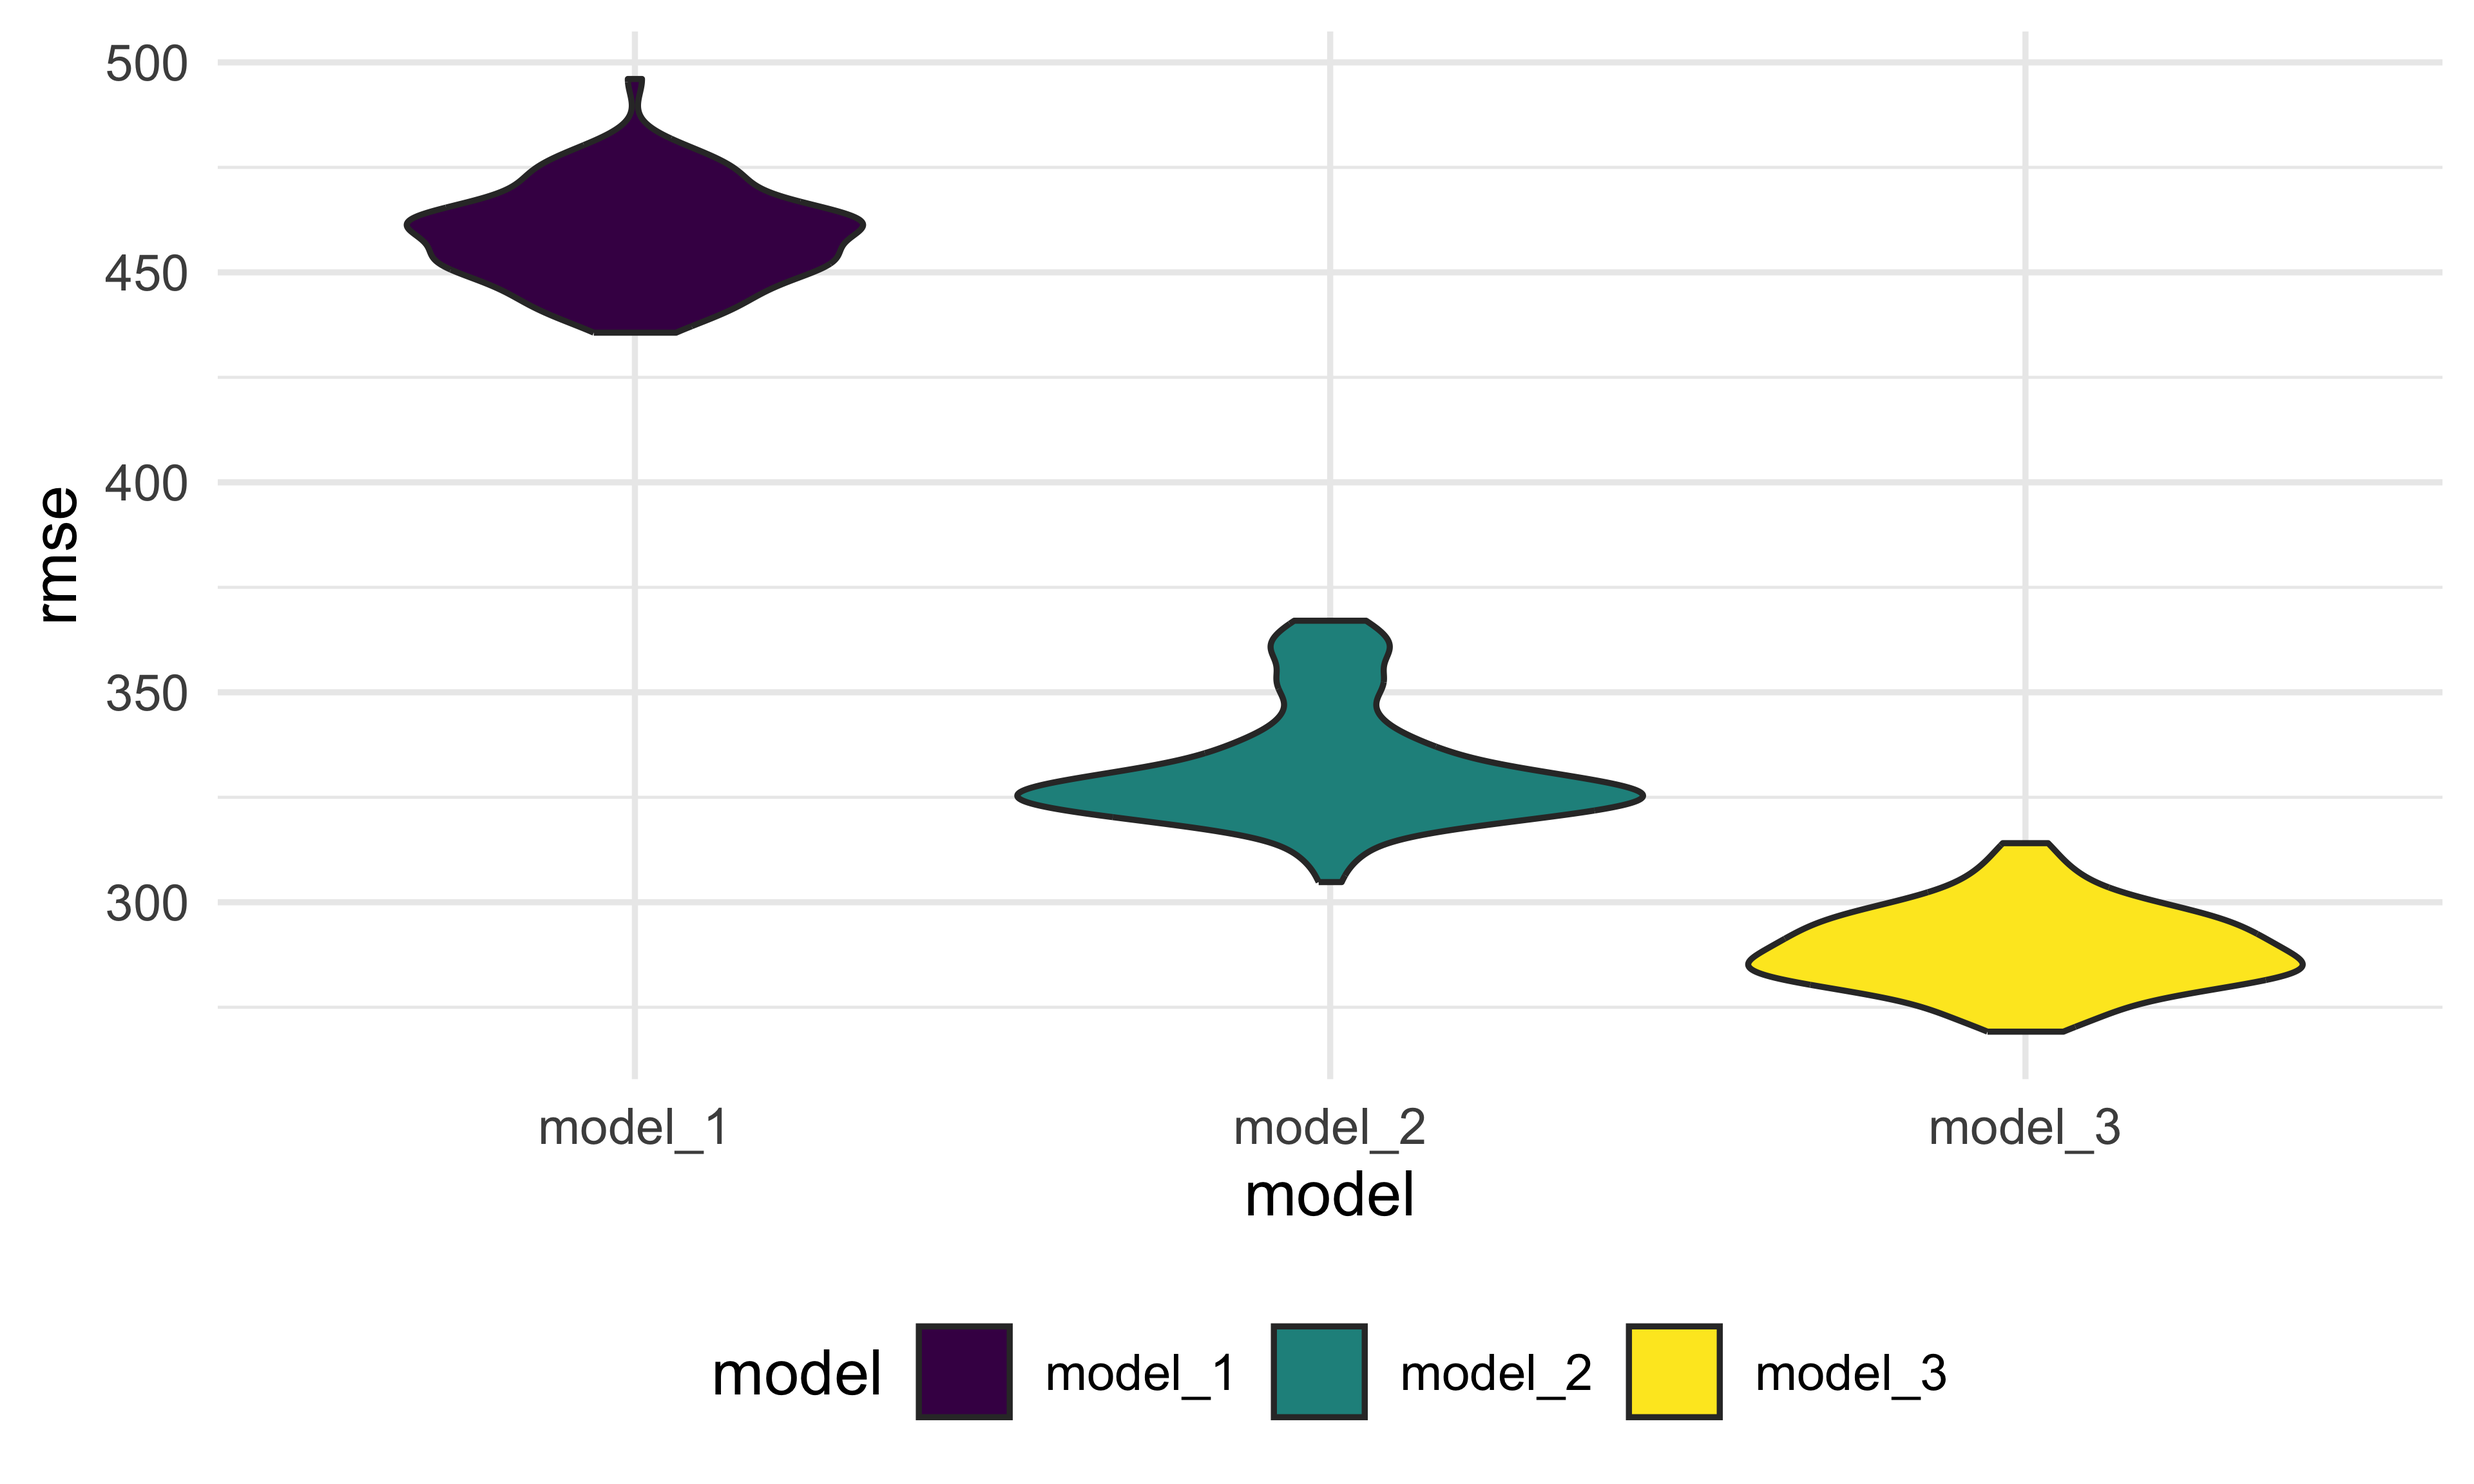
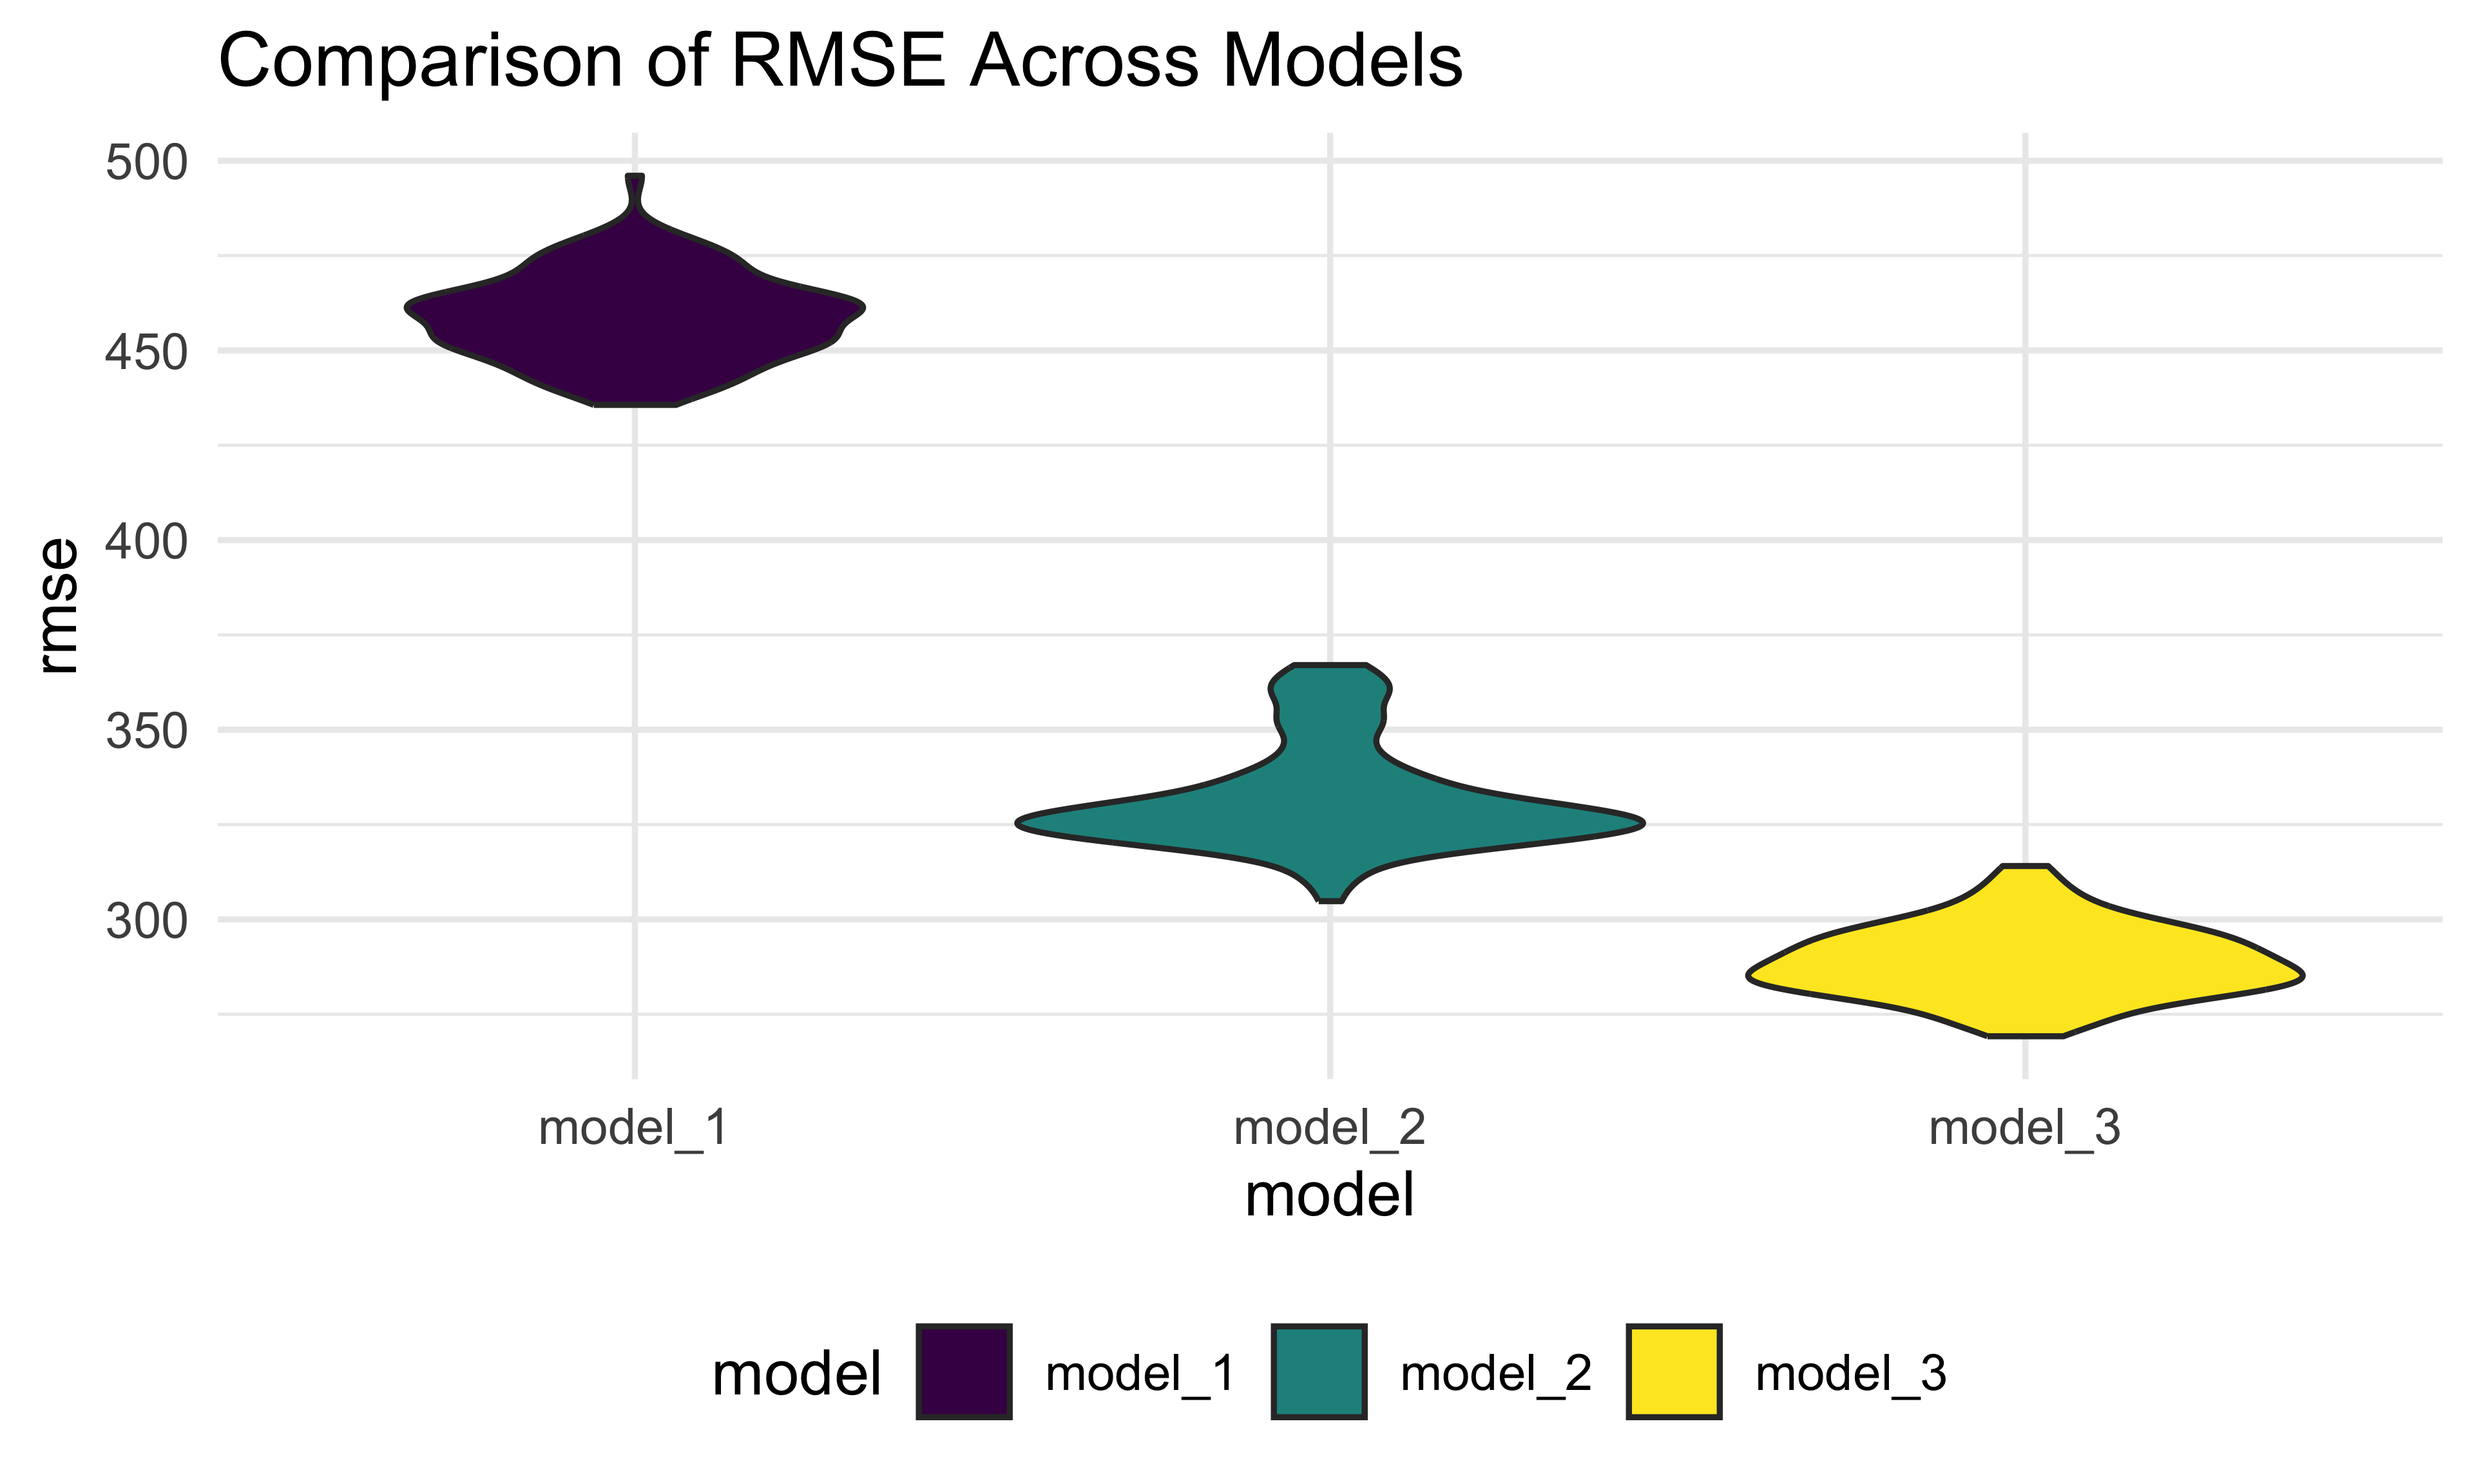
final version

diff --git a/p8105_hw6_bz2561.md b/p8105_hw6_bz2561.md
@@ -263,6 +263,9 @@ coef_dist |>
 
 ## Problem 3
 
+Load the data, do some tidy, and we can see that there’s no missing
+values.
+
 ``` r
 birthweight_df = 
   read_csv("data/birthweight.csv",
@@ -411,7 +414,8 @@ cv_df |>
     names_prefix = "rmse_"
   ) |> 
   ggplot(aes(x = model, y = rmse,fill = model)) +
-  geom_violin()
+  geom_violin()+
+  ggtitle("Comparison of RMSE Across Models")
 ```
 
 <img src="p8105_hw6_bz2561_files/figure-gfm/unnamed-chunk-21-1.png" width="90%" />
